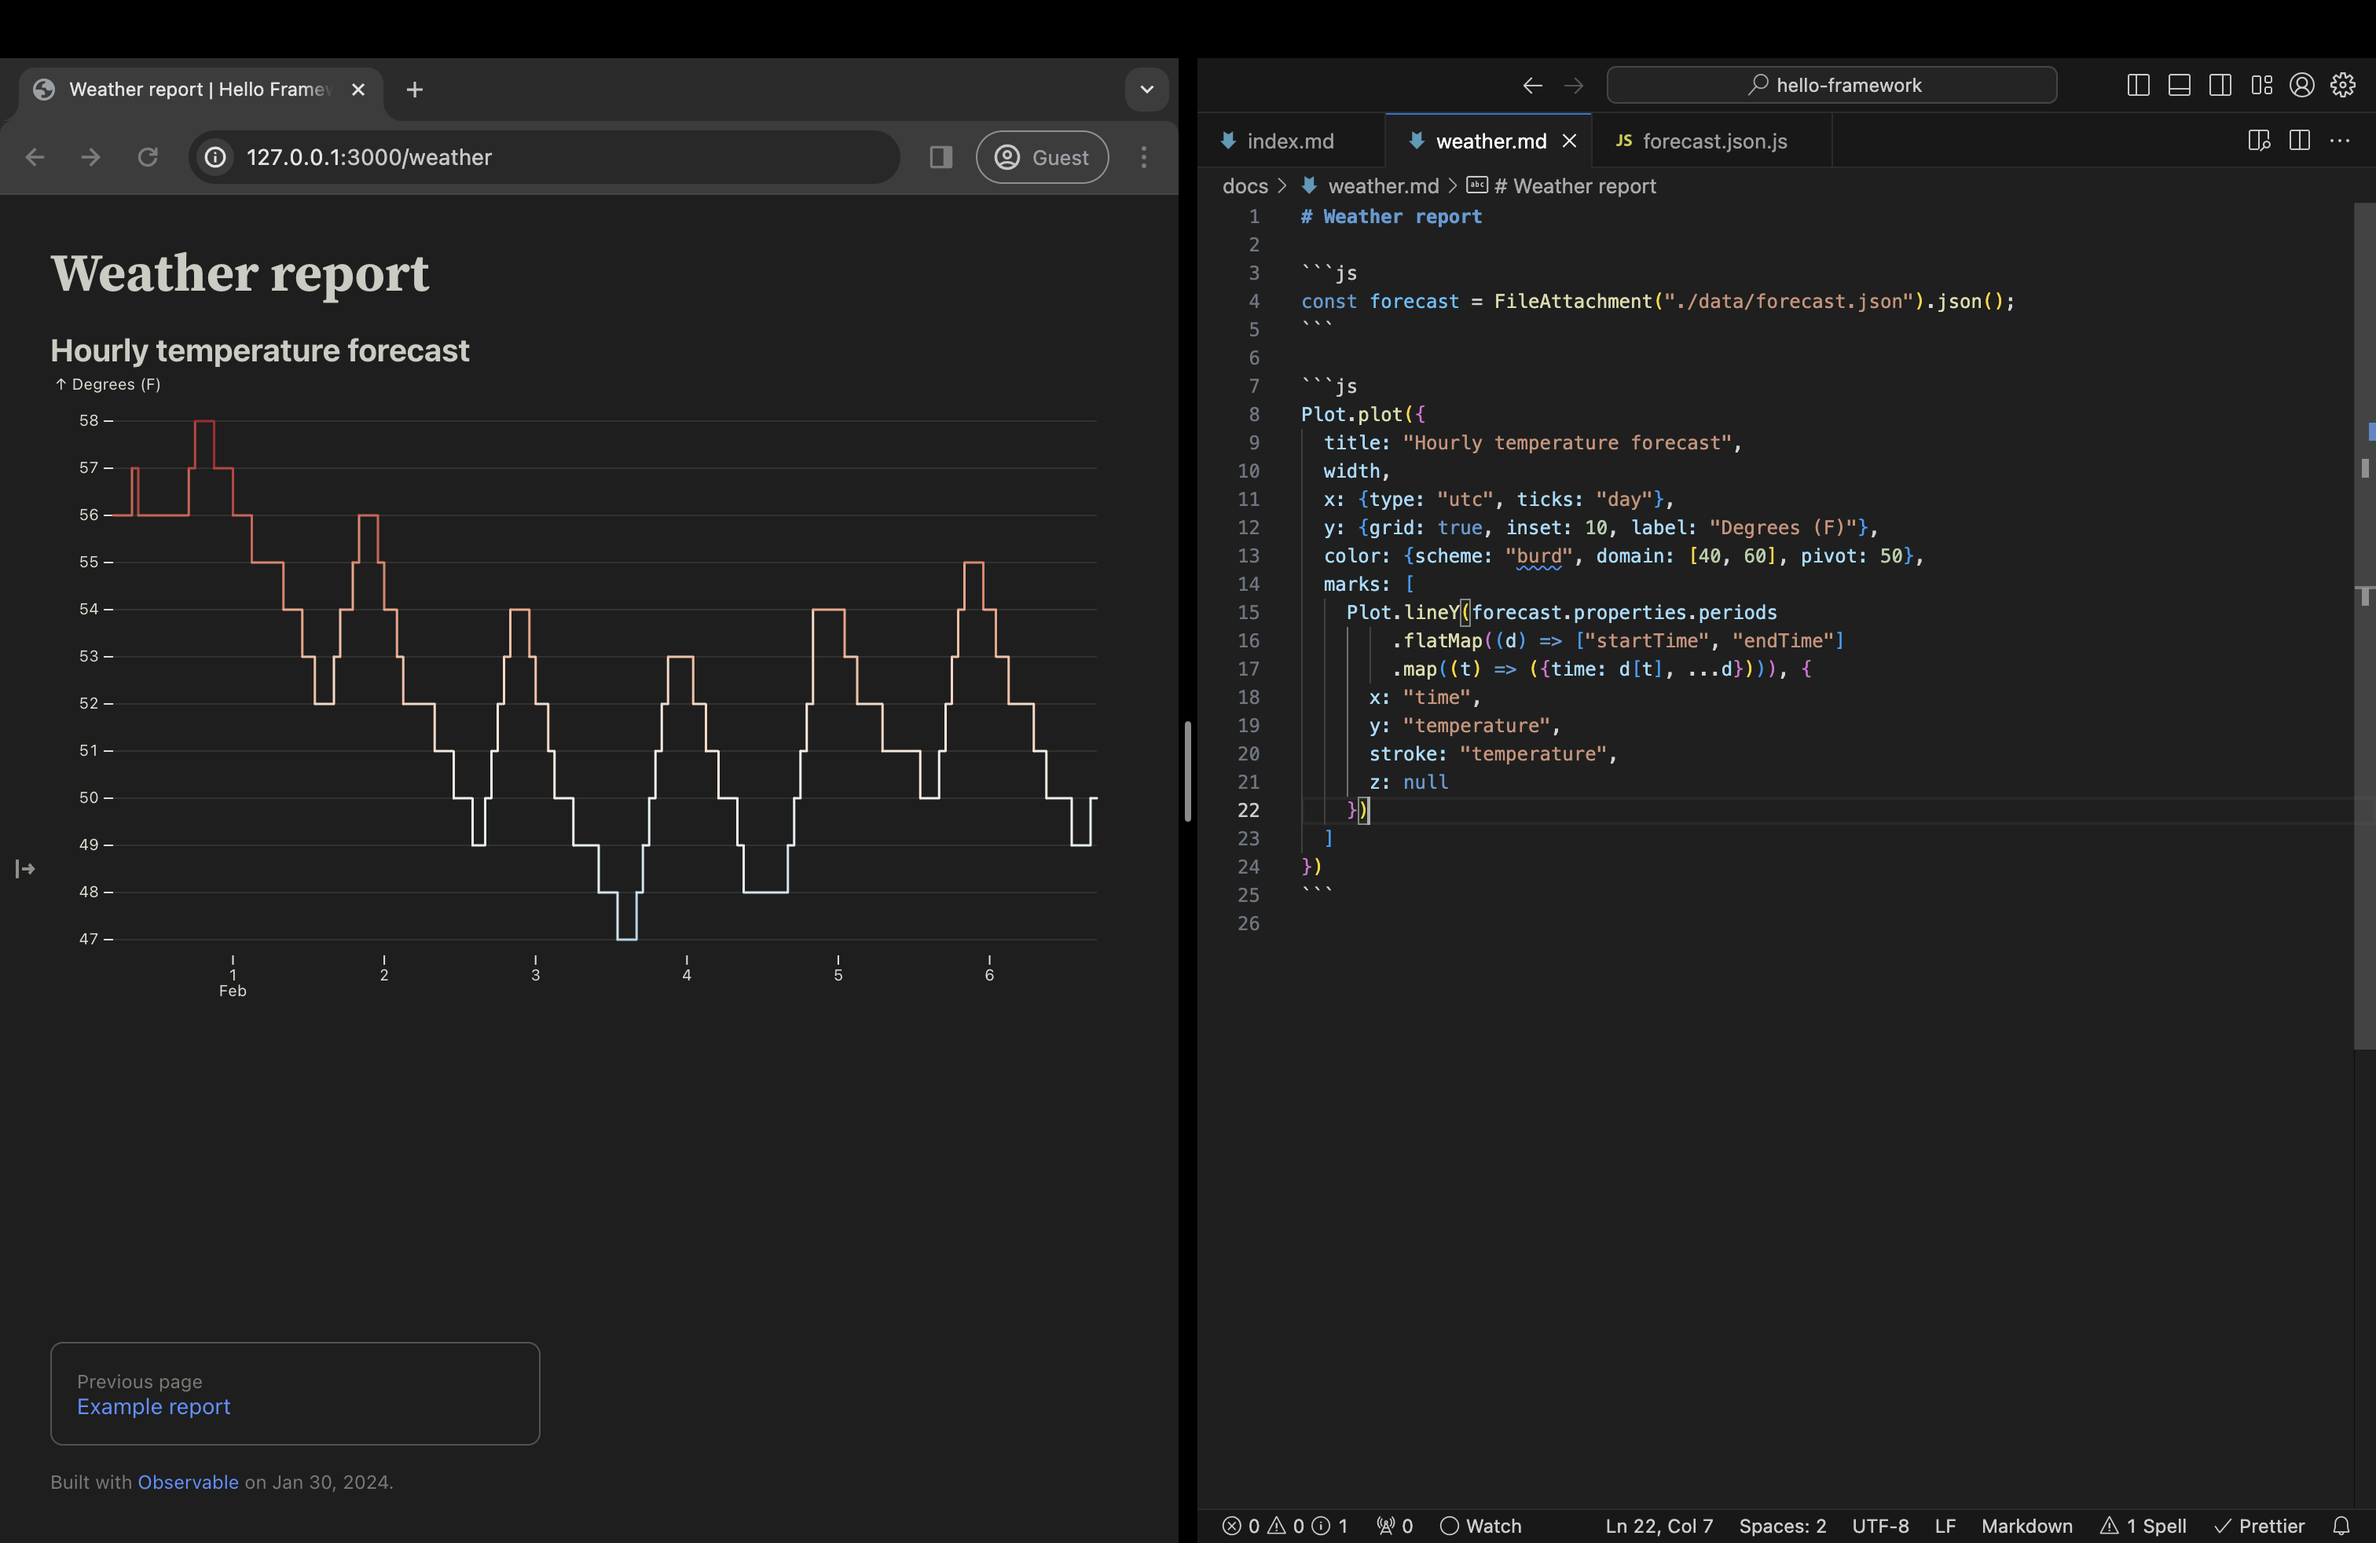
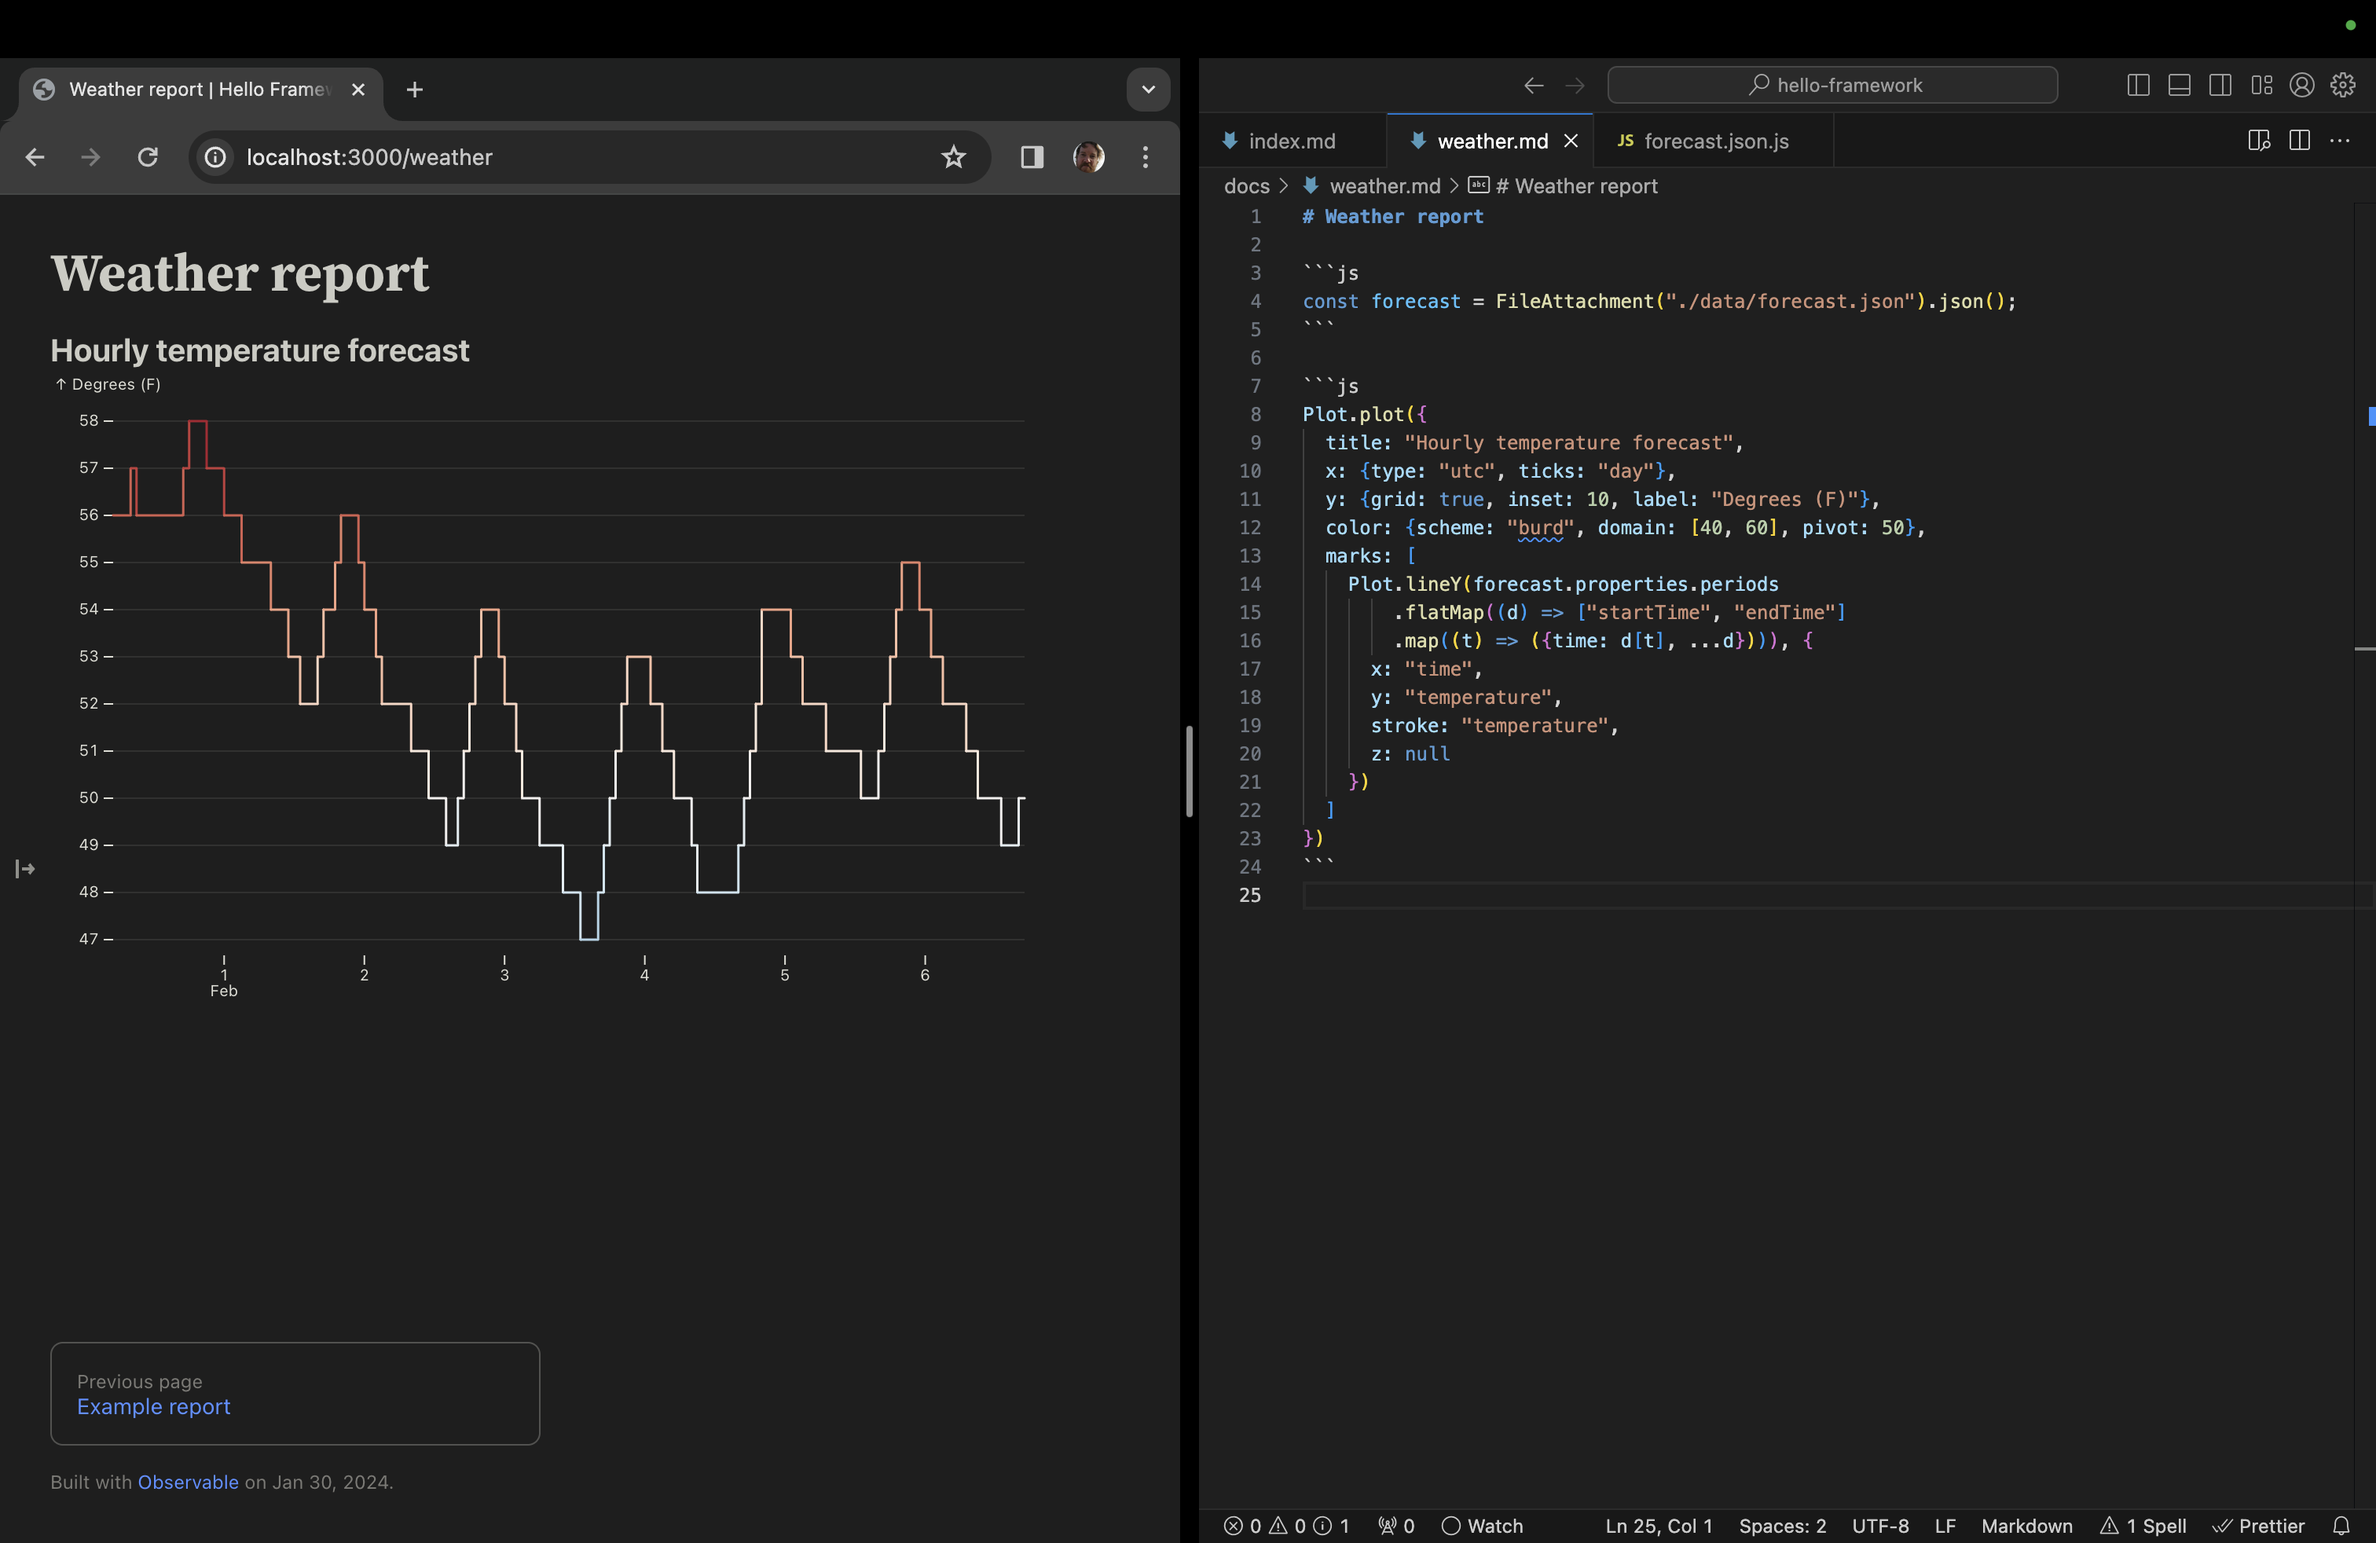
remove width

diff --git a/docs/getting-started.md b/docs/getting-started.md
@@ -415,7 +415,6 @@ Replace the `display(forecast)` code block with the following code:
 ```js run=false
 Plot.plot({
   title: "Hourly temperature forecast",
-  width,
   x: {type: "utc", ticks: "day"},
   y: {grid: true, inset: 10, label: "Degrees (F)"},
   color: {scheme: "burd", domain: [40, 60], pivot: 50},
@@ -438,8 +437,6 @@ Now you’ll see…
   <img loading="lazy" src="./getting-started/hello-plot.png" class="crop">
   <figcaption>Using <code>Plot</code> to make a chart.</figcaption>
 </figure>
-
-It’s responsive using `width`.
 
 Extract into a function, promote `data` to an argument and `width` to an option…
 
